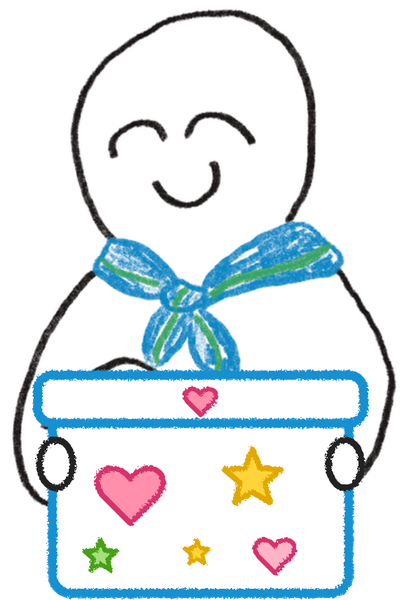
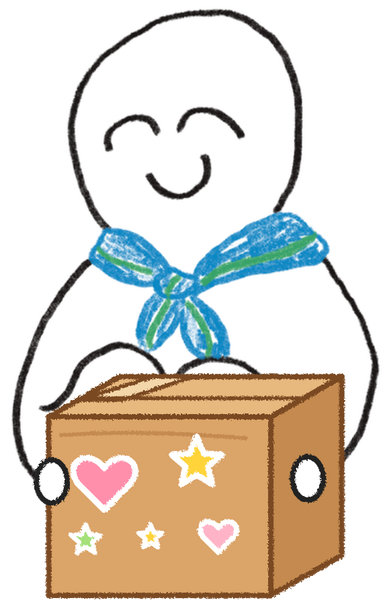
Cardboard box: 3D with tape, flaps that open, sticker hearts and stars; ?demo preview mode with the box event as sample data

diff --git a/js/ui.js b/js/ui.js
@@ -105,8 +105,8 @@ window.UI = (function () {
     </div>`;
   document.querySelectorAll('.loader').forEach(el => { el.innerHTML = LOADER; });
 
-  /* The gift box for box events (hearts and stars, a lid that opens; little thumbs when he holds it) */
-  const BOX = '<svg class="kbox" viewBox="0 0 200 170" aria-hidden="true"><defs><filter id="boxCrayon"><feTurbulence type="fractalNoise" baseFrequency=".85" numOctaves="2" seed="5"/><feDisplacementMap in="SourceGraphic" scale="2.6"/></filter></defs><g filter="url(#boxCrayon)" stroke-linejoin="round" stroke-linecap="round"><path class="kbox-inside" d="M28 64 L42 46 L158 46 L172 64 Z" fill="#cfeafb" stroke="#1590d0" stroke-width="5"/><rect x="20" y="62" width="160" height="100" rx="10" fill="#fff" stroke="#1590d0" stroke-width="5"/><path d="M62.0 100.0 C53.0 88.0 38.0 97.0 47.0 109.0 L62.0 124.0 L77.0 109.0 C86.0 97.0 71.0 88.0 62.0 100.0Z" fill="#ff8fab" stroke="#d6336c" stroke-width="3"/><polygon points="128.0,84.0 132.2,94.2 143.2,95.1 134.8,102.2 137.4,112.9 128.0,107.2 118.6,112.9 121.2,102.2 112.8,95.1 123.8,94.2" fill="#ffd43b" stroke="#e0a800" stroke-width="3"/><path d="M140.0 136.4 C134.6 129.2 125.6 134.6 131.0 141.8 L140.0 150.8 L149.0 141.8 C154.4 134.6 145.4 129.2 140.0 136.4Z" fill="#ffb3c7" stroke="#d6336c" stroke-width="2.5"/><polygon points="46.0,133.0 48.4,138.7 54.6,139.2 49.9,143.3 51.3,149.3 46.0,146.1 40.7,149.3 42.1,143.3 37.4,139.2 43.6,138.7" fill="#a5e07a" stroke="#46a015" stroke-width="2.5"/><polygon points="98.0,133.0 99.9,137.5 104.7,137.8 101.0,141.0 102.1,145.7 98.0,143.2 93.9,145.7 95.0,141.0 91.3,137.8 96.1,137.5" fill="#ffd43b" stroke="#e0a800" stroke-width="2"/><g class="kbox-lid"><rect x="12" y="44" width="176" height="26" rx="8" fill="#fff" stroke="#1590d0" stroke-width="5"/><path d="M100.0 54.2 C95.8 48.6 88.8 52.8 93.0 58.4 L100.0 65.4 L107.0 58.4 C111.2 52.8 104.2 48.6 100.0 54.2Z" fill="#ff8fab" stroke="#d6336c" stroke-width="2.5"/></g><g class="kbox-thumbs" fill="#fff" stroke="#222" stroke-width="3.5"><ellipse cx="22" cy="92" rx="9" ry="13"/><ellipse cx="178" cy="92" rx="9" ry="13"/></g></g></svg>';
+  /* The cardboard box for box events: 3D, sticker hearts and stars, flaps that open; little thumbs when he holds it */
+  const BOX = '<svg class="kbox" viewBox="0 0 230 210" aria-hidden="true"><defs><filter id="boxCrayon"><feTurbulence type="fractalNoise" baseFrequency=".85" numOctaves="2" seed="5"/><feDisplacementMap in="SourceGraphic" scale="2.4"/></filter></defs><g filter="url(#boxCrayon)" stroke="#7a4a22" stroke-width="3.5" stroke-linejoin="round" stroke-linecap="round"><g class="kbox-open"><polygon class="flap flap-back" points="68,62 212,62 202,18 60,24" fill="#e8bd8a"/><polygon class="flap flap-left" points="22,88 68,62 40,40 2,66" fill="#e3b27c"/><polygon class="flap flap-right" points="166,88 212,62 228,84 184,110" fill="#c98f55"/><polygon points="22,88 68,62 212,62 166,88" fill="#6b3f1d"/><polygon points="22,88 68,62 68,74 30,96" fill="#4f2d13" stroke="none"/></g><polygon points="166,88 212,62 212,178 166,204" fill="#c48a50"/><rect x="22" y="88" width="144" height="116" fill="#dba468"/><path d="M30 100 q50 -4 120 2" fill="none" stroke="#c48a50" stroke-width="2.5"/><path d="M58.0 121.2 C47.8 107.6 30.8 117.8 41.0 131.4 L58.0 148.4 L75.0 131.4 C85.2 117.8 68.2 107.6 58.0 121.2Z" fill="#ff8fab" stroke="#fff" stroke-width="4"/><polygon points="118.0,101.0 122.5,111.8 134.2,112.7 125.3,120.4 128.0,131.8 118.0,125.7 108.0,131.8 110.7,120.4 101.8,112.7 113.5,111.8" fill="#ffd43b" stroke="#fff" stroke-width="4"/><path d="M132.0 160.0 C126.0 152.0 116.0 158.0 122.0 166.0 L132.0 176.0 L142.0 166.0 C148.0 158.0 138.0 152.0 132.0 160.0Z" fill="#ffb3c7" stroke="#fff" stroke-width="3.5"/><polygon points="46.0,158.0 48.6,164.4 55.5,164.9 50.3,169.4 51.9,176.1 46.0,172.5 40.1,176.1 41.7,169.4 36.5,164.9 43.4,164.4" fill="#a5e07a" stroke="#fff" stroke-width="3"/><polygon points="88.0,158.0 90.1,163.1 95.6,163.5 91.4,167.1 92.7,172.5 88.0,169.6 83.3,172.5 84.6,167.1 80.4,163.5 85.9,163.1" fill="#ffd43b" stroke="#fff" stroke-width="3"/><g class="kbox-closed"><polygon points="22,88 68,62 212,62 166,88" fill="#e8b97f"/><polygon points="42,77 90,62 116,62 70,77" fill="#f3d6a9" stroke-width="2.5"/><path d="M44 76 L189 76" fill="none" stroke-width="2.5"/></g><g class="kbox-open"><polygon class="flap flap-front" points="22,88 166,88 158,112 16,108" fill="#e8bd8a"/></g><g class="kbox-thumbs" fill="#fff" stroke="#222" stroke-width="3.5"><ellipse cx="24" cy="130" rx="10" ry="14"/><ellipse cx="190" cy="128" rx="10" ry="14"/></g></g></svg>';
 
   /* Progress bars with the riding bus: a finish flag that says ما بقى شي!, and the bus hops
      whenever the bar moves forward. */

diff --git a/js/store.js b/js/store.js
@@ -8,7 +8,9 @@
    initiatives/{id}/people/{pid}    name                                  (team only) */
 window.Store = (function () {
   const cfg = (window.KBF_CONFIG || {}).firebase;
-  const demo = !cfg;
+  // ?demo shows sample events (nothing saved anywhere but this phone), for trying new designs
+  const forced = /[?&]demo\b/.test(location.search);
+  const demo = !cfg || forced;
   const FB = 'https://www.gstatic.com/firebasejs/10.14.1/';
 
   const clone = o => JSON.parse(JSON.stringify(o));
@@ -23,7 +25,7 @@ window.Store = (function () {
 
   /* ---------- preview mode ---------- */
 
-  const KEY = 'kbf-preview-v7';
+  const KEY = 'kbf-preview-v8';
   const listeners = new Set();
   let mem = null;
 
@@ -54,6 +56,7 @@ window.Store = (function () {
   // Preview data: Thursday's sandwich initiative (their poster + checklist), no sign-ups yet
   function seed() {
     const item = (id, name, unit, needed) => ({ id, name, unit, needed, img: `img/items/${id}.jpg` });
+    const box = (id, name, unit, needed) => ({ id, name, unit, needed, img: `img/items/${id}.png` });
     return {
       initiatives: {
         'sandwiches-oct': {
@@ -69,6 +72,16 @@ window.Store = (function () {
             item('crackers', 'بسكوت', 'حبات', 300),
             item('fruit', 'تفاح أو برتقال', 'حبات', 300),
             item('juice', 'عصير', 'علب', 300)
+          ]
+        },
+        'boxes-dec': {
+          id: 'boxes-dec', title: 'مبادرة الصناديق', date: '2026-12-26', time: '', place: 'ديوان العيسى',
+          map: 'https://maps.app.goo.gl/ABWvC2uvC4fWWJve7', phone: '94725505', status: 'open', createdAt: Date.now(),
+          photo: 'img/events/box-friend.png', boxes: 35,
+          items: [
+            box('rice', 'رز', 'أكياس', 35), box('lentils', 'عدس', 'علب', 105), box('pasta', 'معكرونة', 'أكياس', 35),
+            box('tea', 'شاي', 'علب', 35), box('oil', 'زيت', 'قناني كبيرة', 35), box('canned', 'معلبات منوعة', 'علب', 105),
+            box('dates', 'تمر', 'علب', 35), box('sugar', 'سكر', 'أكياس', 35), box('flour', 'طحين', 'أكياس', 35)
           ]
         }
       },
@@ -218,5 +231,5 @@ window.Store = (function () {
     async signOut() { await ready; await firebase.auth().signOut(); }
   };
 
-  return { demo, ready, ...(demo ? previewApi : liveApi) };
+  return { demo, forced, ready, ...(demo ? previewApi : liveApi) };
 })();

diff --git a/initiative.html b/initiative.html
@@ -18,7 +18,7 @@
   <link rel="preconnect" href="https://fonts.googleapis.com">
   <link rel="preconnect" href="https://fonts.gstatic.com" crossorigin>
   <link href="https://fonts.googleapis.com/css2?family=Rubik:wght@400;500;700;800&display=swap" rel="stylesheet">
-  <link rel="stylesheet" href="css/style.css?v=11030949">
+  <link rel="stylesheet" href="css/style.css?v=11030953">
 </head>
 <body class="lesson-page brand-bg">
   <!-- like a lesson: close on one side, progress across the top, event name once you scroll -->
@@ -133,9 +133,9 @@
     <button class="btn btn-primary btn-wide" type="button" id="doneBtn">متابعة</button>
   </section>
 
-  <script src="js/config.js?v=11030949"></script>
-  <script src="js/store.js?v=11030949"></script>
-  <script src="js/ui.js?v=11030949"></script>
-  <script src="js/initiative.js?v=11030949"></script>
+  <script src="js/config.js?v=11030953"></script>
+  <script src="js/store.js?v=11030953"></script>
+  <script src="js/ui.js?v=11030953"></script>
+  <script src="js/initiative.js?v=11030953"></script>
 </body>
 </html>

diff --git a/css/style.css b/css/style.css
@@ -506,8 +506,15 @@ body.has-basket .live-pop { bottom: calc(96px + env(safe-area-inset-bottom)); }
 
 /* the gift box (box events) */
 .kbox { display: block; width: 100%; height: auto; overflow: visible; }
-.kbox-lid { transform-box: view-box; transform-origin: 100px 57px; transition: transform .5s var(--spring); }
-.kbox.open .kbox-lid { transform: translate(-58px, -30px) rotate(-22deg); }
+.kbox .kbox-open { opacity: 0; transition: opacity .15s; }
+.kbox.open .kbox-open { opacity: 1; }
+.kbox.open .kbox-closed { opacity: 0; }
+.kbox .flap { transform-box: fill-box; transition: transform .5s var(--spring); }
+.kbox .flap-back { transform-origin: bottom; transform: scaleY(0); }
+.kbox .flap-left { transform-origin: right; transform: scaleX(0); }
+.kbox .flap-right { transform-origin: left; transform: scaleX(0); }
+.kbox .flap-front { transform-origin: top; transform: scaleY(0); }
+.kbox.open .flap { transform: none; }
 .kbox-thumbs { display: none; }
 .held .kbox-thumbs { display: inline; }
 /* the friend holding it, in the event page's hero */

diff --git a/index.html b/index.html
@@ -18,7 +18,7 @@
   <link rel="preconnect" href="https://fonts.googleapis.com">
   <link rel="preconnect" href="https://fonts.gstatic.com" crossorigin>
   <link href="https://fonts.googleapis.com/css2?family=Rubik:wght@400;500;700;800&display=swap" rel="stylesheet">
-  <link rel="stylesheet" href="css/style.css?v=11030949">
+  <link rel="stylesheet" href="css/style.css?v=11030953">
 </head>
 <body class="brand-bg">
   <!-- white band with their hand-drawn squiggle along the bottom -->
@@ -62,9 +62,9 @@
     </div>
   </main>
 
-  <script src="js/config.js?v=11030949"></script>
-  <script src="js/store.js?v=11030949"></script>
-  <script src="js/ui.js?v=11030949"></script>
-  <script src="js/home.js?v=11030949"></script>
+  <script src="js/config.js?v=11030953"></script>
+  <script src="js/store.js?v=11030953"></script>
+  <script src="js/ui.js?v=11030953"></script>
+  <script src="js/home.js?v=11030953"></script>
 </body>
 </html>

diff --git a/admin.html b/admin.html
@@ -11,7 +11,7 @@
   <link rel="preconnect" href="https://fonts.googleapis.com">
   <link rel="preconnect" href="https://fonts.gstatic.com" crossorigin>
   <link href="https://fonts.googleapis.com/css2?family=Rubik:wght@400;500;700;800&display=swap" rel="stylesheet">
-  <link rel="stylesheet" href="css/style.css?v=11030949">
+  <link rel="stylesheet" href="css/style.css?v=11030953">
 </head>
 <body class="admin-page">
   <header class="site-head">
@@ -51,9 +51,9 @@
   </main>
 
   <script>window.KBF_ADMIN = true;</script>
-  <script src="js/config.js?v=11030949"></script>
-  <script src="js/store.js?v=11030949"></script>
-  <script src="js/ui.js?v=11030949"></script>
-  <script src="js/admin.js?v=11030949"></script>
+  <script src="js/config.js?v=11030953"></script>
+  <script src="js/store.js?v=11030953"></script>
+  <script src="js/ui.js?v=11030953"></script>
+  <script src="js/admin.js?v=11030953"></script>
 </body>
 </html>

diff --git a/js/home.js b/js/home.js
@@ -109,7 +109,7 @@
         ${s.friends ? `<span class="done-stats"><span class="faces">${faces.join('')}</span>
           <span class="done-text"><b>${s.friends}</b> ${UI.friendsWord(s.friends)} · <b>${s.pieces.toLocaleString('en')}</b> ${UI.piecesWord(s.pieces)}</span></span>` : ''}`;
     };
-    return `<li style="--i:${i}" data-sig="${esc(sig(ini, past))}"><a class="ev-card${past ? ' done-card' : ''}" href="initiative.html?id=${encodeURIComponent(ini.id)}">
+    return `<li style="--i:${i}" data-sig="${esc(sig(ini, past))}"><a class="ev-card${past ? ' done-card' : ''}" href="initiative.html?id=${encodeURIComponent(ini.id)}${Store.forced ? '&demo' : ''}">
       ${soon ? `<span class="sticker">${soon}</span>` : ''}
       ${past ? '<span class="sticker sticker-done">تسلم ايدكم!</span>' : ''}
       <span class="ev-icon"><img src="${esc(ini.photo || 'img/logo-180.png')}" alt=""></span>

diff --git a/js/initiative.js b/js/initiative.js
@@ -2,6 +2,7 @@
 (function () {
   const { $, $$, esc, tally, arDate, twoTone, icon, toast, safeUrl, whatsapp } = UI;
   const iid = new URLSearchParams(location.search).get('id');
+  if (Store.forced) $('.close-btn').href = 'index.html?demo';
   $('#goal').outerHTML = UI.GOAL;
   const done = $('#thanks');
   const cards = new Map();
